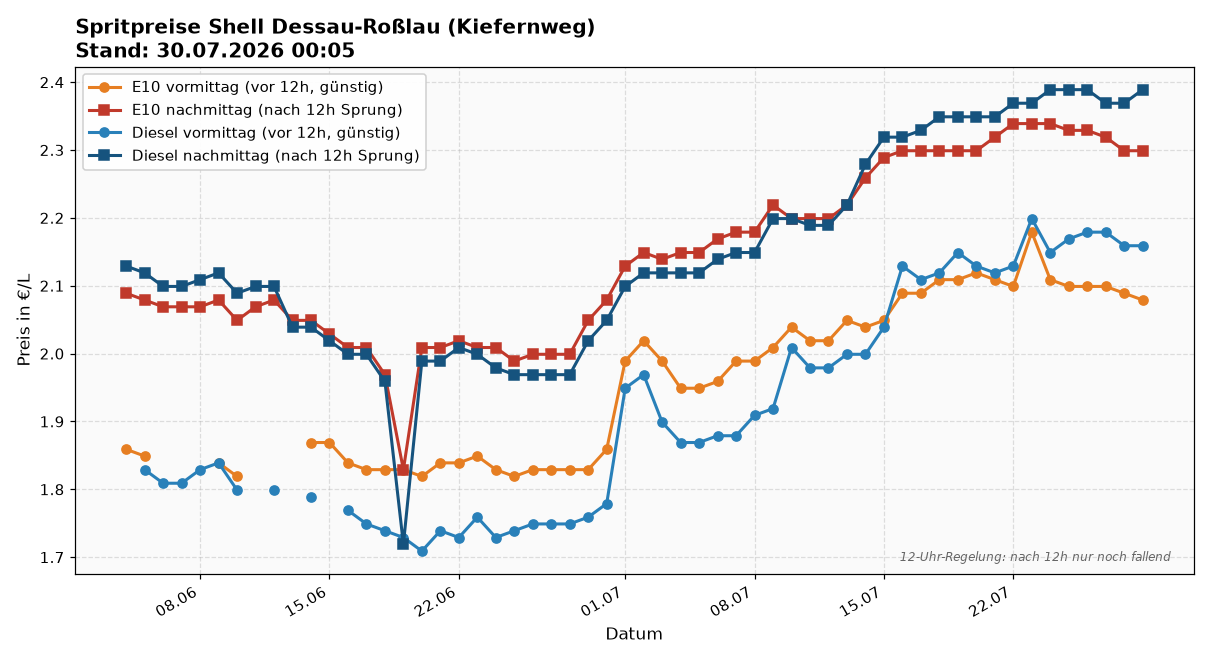
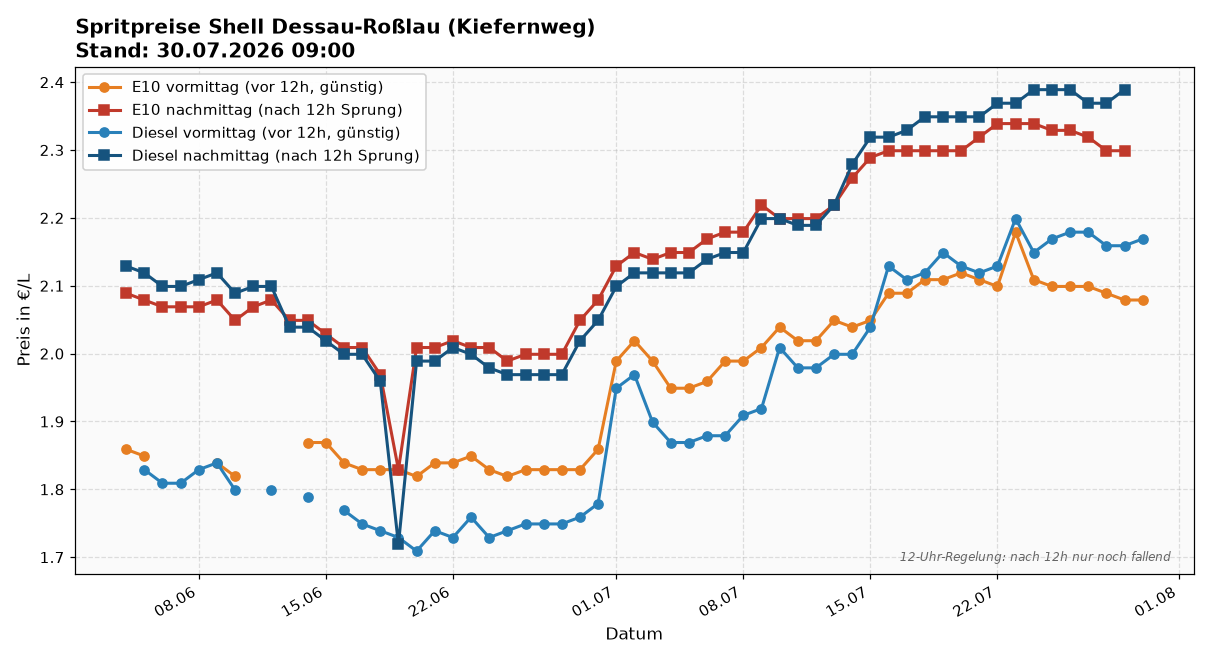
update: spritpreise 2026-07-30 09:00

diff --git a/index.html b/index.html
@@ -19,17 +19,17 @@
 </head>
 <body>
 <h1>🛢 Spritpreise Shell Dessau-Roßlau (Kiefernweg)</h1>
-<div class="sub">Source: Tankerkönig · Stand: 30.07.2026 00:05</div>
+<div class="sub">Source: Tankerkönig · Stand: 30.07.2026 09:00</div>
 
 <img src="latest.png" alt="Preisverlauf">
 
 <div class="latest">
   <strong>Heute (2026-07-30)</strong>
-  <div style="color:#888;font-style:italic;margin-bottom:0.5em;">Noch keine Messung heute — cron läuft 09:00 + 12:10.</div>
+  
   <table>
-    <tr><td>E10 vormittag</td><td class="price">— €</td></tr>
+    <tr><td>E10 vormittag</td><td class="price">2.079 €</td></tr>
     <tr><td>E10 nachmittag</td><td class="price">— €</td></tr>
-    <tr><td>Diesel vormittag</td><td class="price">— €</td></tr>
+    <tr><td>Diesel vormittag</td><td class="price">2.169 €</td></tr>
     <tr><td>Diesel nachmittag</td><td class="price">— €</td></tr>
   </table>
 </div>
